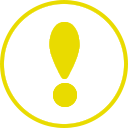
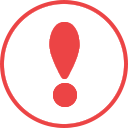
Change styles of error pages

Changed region(s): [[0.0, 0.0, 1.0, 1.0], [0.375, 0.1562, 0.625, 0.8438]]

diff --git a/public/404.html b/public/404.html
@@ -2,53 +2,56 @@
 <html>
 <head>
   <title>The page you were looking for doesn't exist (404)</title>
-    <style>
-  body {
-    color: #191919;
-    text-align: center;
-    font:1em/1.4 Arial,Helvetica,sans-serif;
-  }
-
-  div.dialog {
-    width: 25em;
-    margin: 4em auto 0 auto;
-    border: 1px solid #CCC;
-    border-right-color: #999;
-    border-left-color: #999;
-    border-bottom-color: #BBB;
-    border-top: #ed906c solid 4px;
-    border-top-left-radius: 0;
-    border-top-right-radius: 0;
-    background-color: white;
-    padding: 5em 4em 1em 4em;
-    box-shadow:0 0 1em #000000;
-    background:#ffffff url("/assets/alert-icon.png") no-repeat 50% 10%;
-  }
-
-  h1 {
-    font-size: 1.2em;
-    color: #191919;
-    line-height: 1.5em;
-    font-style:italic;
-  }
-
-  body p {
-    margin: 0;
-    padding: 0;
-    color: #191919;
-  }
-  body p:last-child {
-    border-top:2px solid #dddcdb;
-    color: #ed906c;    
-    margin: 1em auto;
-    padding: 1em 0;
-  }
+  <style>
+    body{
+      color: #191919;
+      text-align: center;
+      font:1em/1.4 Arial,Helvetica,sans-serif;
+      }
+    div.dialog{
+      background:none;
+      border:0.4em solid #ec4445;
+      margin:4em auto 0;
+      padding:3em 5em;
+      position:relative;
+      text-align:left;
+      width:25em;
+      }
+      img{
+        background:#ffffff;
+        border:0.5em solid #ffffff;
+        border-radius:100%;
+        float:left;
+        left:-4.5em;
+        position:absolute;
+        top:-1.5em;
+        }
+      h1{
+        color:#191919;
+        display:block;
+        font-size:1.2em;
+        font-style:italic;
+        line-height:1.5em;
+        margin:0 0 2em 0;
+        text-align:center;
+        width:100%;
+      }
+      body p{
+        color:#191919;
+        display:block;
+        font-size:0.8em;
+        margin:0 0 0.3em 0;
+        padding:0;
+        text-align:center;
+        width:100%;
+      }
   </style>
 </head>
 
 <body>
   <!-- This file lives in public/404.html -->
   <div class="dialog">
+    <img src="/assets/alertBig-icon.png" alt="Alert icon">
     <h1>The page you were looking for doesn't exist.</h1>
     <p>You may have mistyped the address or the page may have moved.</p>
     <p>If you are the application owner check the logs for more information.</p>

diff --git a/public/422.html b/public/422.html
@@ -2,53 +2,56 @@
 <html>
 <head>
   <title>The change you wanted was rejected (422)</title>
-    <style>
-  body {
-    color: #191919;
-    text-align: center;
-    font:1em/1.4 Arial,Helvetica,sans-serif;
-  }
-
-  div.dialog {
-    width: 25em;
-    margin: 4em auto 0 auto;
-    border: 1px solid #CCC;
-    border-right-color: #999;
-    border-left-color: #999;
-    border-bottom-color: #BBB;
-    border-top: #ed906c solid 4px;
-    border-top-left-radius: 0;
-    border-top-right-radius: 0;
-    background-color: white;
-    padding: 5em 4em 1em 4em;
-    box-shadow:0 0 1em #000000;
-    background:#ffffff url("/assets/alert-icon.png") no-repeat 50% 10%;
-  }
-
-  h1 {
-    font-size: 1.2em;
-    color: #191919;
-    line-height: 1.5em;
-    font-style:italic;
-  }
-
-  body p {
-    margin: 0;
-    padding: 0;
-    color: #191919;
-  }
-  body p:last-child {
-    border-top:2px solid #dddcdb;
-    color: #ed906c;    
-    margin: 1em auto;
-    padding: 1em 0;
-  }
+  <style>
+    body{
+      color: #191919;
+      text-align: center;
+      font:1em/1.4 Arial,Helvetica,sans-serif;
+      }
+    div.dialog{
+      background:none;
+      border:0.4em solid #ec4445;
+      margin:4em auto 0;
+      padding:3em 5em;
+      position:relative;
+      text-align:left;
+      width:25em;
+      }
+      img{
+        background:#ffffff;
+        border:0.5em solid #ffffff;
+        border-radius:100%;
+        float:left;
+        left:-4.5em;
+        position:absolute;
+        top:-1.5em;
+        }
+      h1{
+        color:#191919;
+        display:block;
+        font-size:1.2em;
+        font-style:italic;
+        line-height:1.5em;
+        margin:0 0 2em 0;
+        text-align:center;
+        width:100%;
+      }
+      body p{
+        color:#191919;
+        display:block;
+        font-size:0.8em;
+        margin:0 0 0.3em 0;
+        padding:0;
+        text-align:center;
+        width:100%;
+      }
   </style>
 </head>
 
 <body>
   <!-- This file lives in public/422.html -->
   <div class="dialog">
+    <img src="/assets/alertBig-icon.png" alt="Alert icon">
     <h1>The change you wanted was rejected.</h1>
     <p>Maybe you tried to change something you didn't have access to.</p>
     <p>If you are the application owner check the logs for more information.</p>

diff --git a/public/500.html b/public/500.html
@@ -1,55 +1,57 @@
-
 <!DOCTYPE html>
 <html>
 <head>
   <title>We're sorry, but something went wrong (500)</title>
-    <style>
-  body {
-    color: #191919;
-    text-align: center;
-    font:1em/1.4 Arial,Helvetica,sans-serif;
-  }
-
-  div.dialog {
-    width: 25em;
-    margin: 4em auto 0 auto;
-    border: 1px solid #CCC;
-    border-right-color: #999;
-    border-left-color: #999;
-    border-bottom-color: #BBB;
-    border-top: #ed906c solid 4px;
-    border-top-left-radius: 0;
-    border-top-right-radius: 0;
-    background-color: white;
-    padding: 5em 4em 1em 4em;
-    box-shadow:0 0 1em #000000;
-    background:#ffffff url("/assets/alert-icon.png") no-repeat 50% 10%;
-  }
-
-  h1 {
-    font-size: 1.2em;
-    color: #191919;
-    line-height: 1.5em;
-    font-style:italic;
-  }
-
-  body p {
-    margin: 0;
-    padding: 0;
-    color: #191919;
-  }
-  body p:last-child {
-    border-top:2px solid #dddcdb;
-    color: #ed906c;    
-    margin: 1em auto;
-    padding: 1em 0;
-  }
+  <style>
+    body{
+      color: #191919;
+      text-align: center;
+      font:1em/1.4 Arial,Helvetica,sans-serif;
+      }
+    div.dialog{
+      background:none;
+      border:0.4em solid #ec4445;
+      margin:4em auto 0;
+      padding:3em 5em;
+      position:relative;
+      text-align:left;
+      width:25em;
+      }
+      img{
+        background:#ffffff;
+        border:0.5em solid #ffffff;
+        border-radius:100%;
+        float:left;
+        left:-4.5em;
+        position:absolute;
+        top:-1.5em;
+        }
+      h1{
+        color:#191919;
+        display:block;
+        font-size:1.2em;
+        font-style:italic;
+        line-height:1.5em;
+        margin:0 0 2em 0;
+        text-align:center;
+        width:100%;
+      }
+      body p{
+        color:#191919;
+        display:block;
+        font-size:0.8em;
+        margin:0 0 0.3em 0;
+        padding:0;
+        text-align:center;
+        width:100%;
+      }
   </style>
 </head>
 
 <body>
   <!-- This file lives in public/500.html -->
   <div class="dialog">
+    <img src="/assets/alertBig-icon.png" alt="Alert icon">
     <h1>We're sorry, but something went wrong.</h1>
     <p>If you are the application owner check the logs for more information.</p>
   </div>
